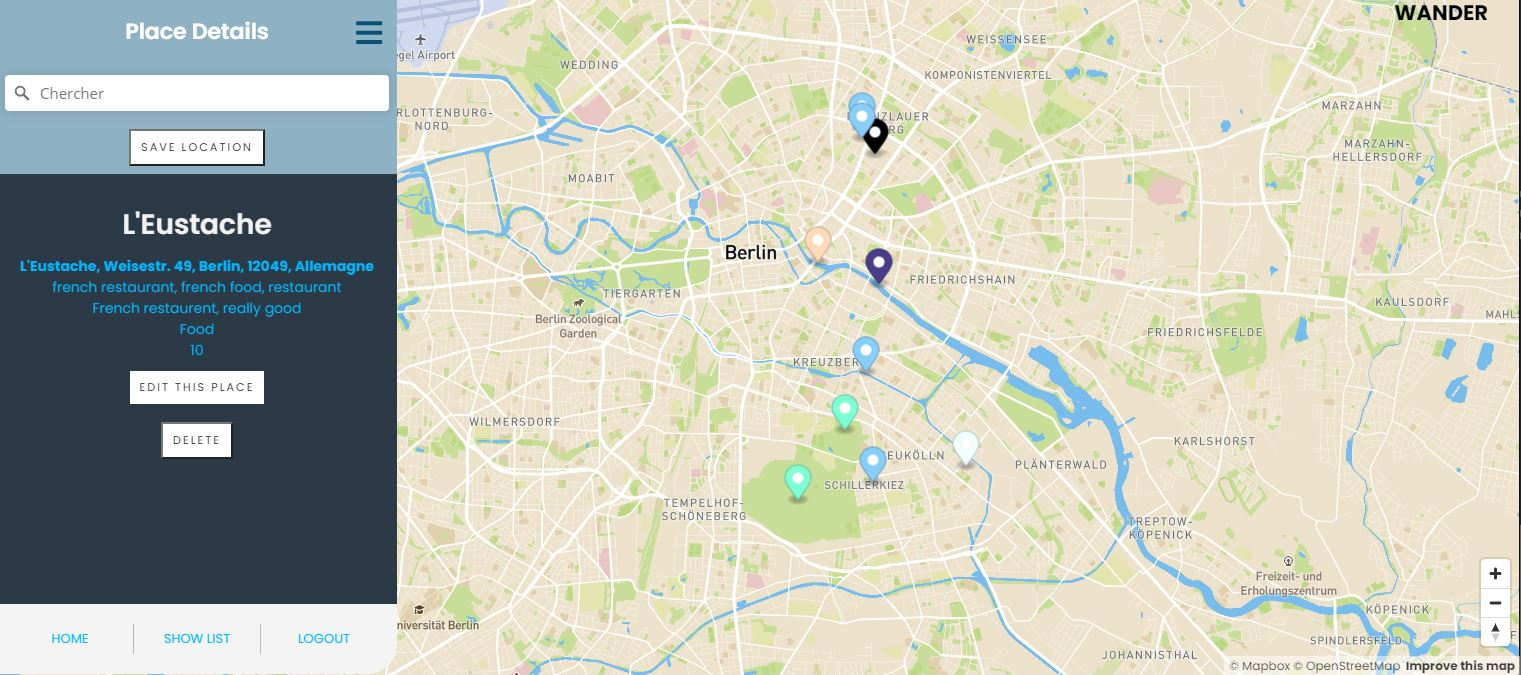
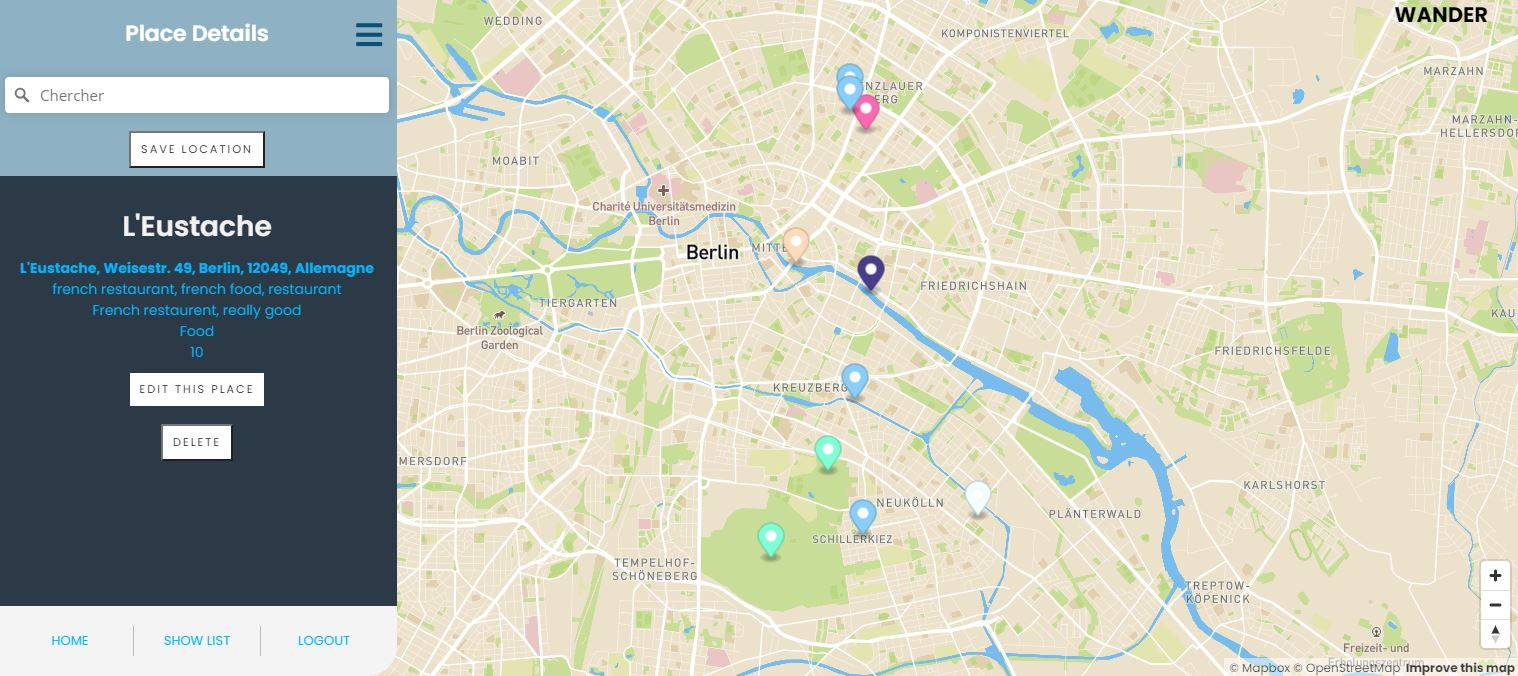
images readme

diff --git a/README.md b/README.md
@@ -19,7 +19,7 @@ Wander is a full-stack application to save your favourite places around the worl
 <img src="./public/images/firstPage.JPG">
 <img src="./public/images/list.JPG">
 <img src="./public/images/details.JPG">
-<img src="./public/images/list.JPG">
+<img src="./public/images/edit.JPG">
 
 
 
